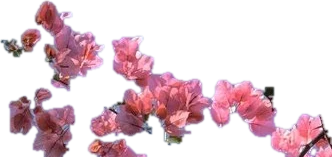
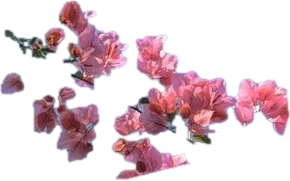
Ikebana: bougainvillea as slender branches with bract clusters
The lifted cutouts now follow a single branch each (the stray branch
and the lilac pick are gone). In the bowl each one becomes a slender
woody stem with single bract clusters on short spurs, cut at full
resolution and shown larger than in the photo, turned to face you.

Claude-Session: https://claude.ai/code/session_01CxARGhhHHX1fuduJKQNsWb

diff --git a/ikebana/index.html b/ikebana/index.html
@@ -127,7 +127,7 @@ button{font:inherit;color:inherit}
 (() => {
 'use strict';
 /* ================= data ================= */
-const FL = [{"key":"bougainvillea-mauve","name":"Bougainvillea","photo":1,"x":448,"y":0,"w":245,"h":335,"W":1125,"H":1500,"cx":0.457,"cy":0.448},{"key":"bougainvillea-coral","name":"Bougainvillea","photo":1,"x":348,"y":440,"w":352,"h":160,"W":1125,"H":1500,"cx":0.659,"cy":0.75},{"key":"bougainvillea-lilac","name":"Bougainvillea","photo":1,"x":687,"y":325,"w":228,"h":235,"W":1125,"H":1500,"cx":0.496,"cy":0.404},{"key":"phalaenopsis-low","name":"Moth orchid","photo":2,"x":66,"y":658,"w":376,"h":274,"W":1125,"H":1500,"cx":0.511,"cy":0.482},{"key":"phalaenopsis-top","name":"Moth orchid","photo":2,"x":225,"y":382,"w":337,"h":287,"W":1125,"H":1500,"cx":0.496,"cy":0.498},{"key":"phalaenopsis-mid","name":"Moth orchid","photo":2,"x":613,"y":374,"w":236,"h":214,"W":1125,"H":1500,"cx":0.53,"cy":0.486},{"key":"phalaenopsis-side","name":"Moth orchid","photo":2,"x":940,"y":384,"w":105,"h":148,"W":1125,"H":1500,"cx":0.4,"cy":0.459},{"key":"dahlia-cream","name":"Cream dahlia","photo":3,"x":570,"y":702,"w":240,"h":212,"W":1125,"H":1500,"cx":0.5,"cy":0.533},{"key":"lisianthus-rose","name":"Lisianthus","photo":3,"x":439,"y":1021,"w":216,"h":191,"W":1125,"H":1500,"cx":0.491,"cy":0.545},{"key":"lisianthus-blush","name":"Lisianthus","photo":3,"x":623,"y":1110,"w":162,"h":161,"W":1125,"H":1500,"cx":0.506,"cy":0.497},{"key":"lisianthus-pink","name":"Lisianthus","photo":3,"x":308,"y":1207,"w":225,"h":217,"W":1125,"H":1500,"cx":0.52,"cy":0.512},{"key":"echinops-front","name":"Globe thistle","photo":3,"x":309,"y":933,"w":109,"h":121,"W":1125,"H":1500,"cx":0.349,"cy":0.405},{"key":"echinops-left","name":"Globe thistle","photo":3,"x":0,"y":890,"w":134,"h":116,"W":1125,"H":1500,"cx":0.493,"cy":0.474},{"key":"hollyhock-open","name":"Hollyhock","photo":4,"x":564,"y":590,"w":375,"h":382,"W":1125,"H":1500,"cx":0.501,"cy":0.492},{"key":"hollyhock-upper","name":"Hollyhock","photo":4,"x":213,"y":230,"w":238,"h":204,"W":1125,"H":1500,"cx":0.5,"cy":0.529},{"key":"hollyhock-bell","name":"Hollyhock","photo":4,"x":87,"y":324,"w":191,"h":255,"W":1125,"H":1500,"cx":0.476,"cy":0.502},{"key":"coriander-a","name":"Coriander flowers","photo":5,"x":240,"y":412,"w":189,"h":100,"W":1125,"H":1500,"cx":0.476,"cy":0.46},{"key":"coriander-b","name":"Coriander flowers","photo":5,"x":345,"y":815,"w":210,"h":164,"W":1125,"H":1500,"cx":0.476,"cy":0.396},{"key":"coriander-c","name":"Coriander flowers","photo":5,"x":585,"y":426,"w":143,"h":129,"W":1125,"H":1500,"cx":0.49,"cy":0.457},{"key":"coriander-d","name":"Coriander flowers","photo":5,"x":345,"y":1108,"w":195,"h":237,"W":1125,"H":1500,"cx":0.513,"cy":0.494}];
+const FL = [{"key":"bougainvillea-mauve","name":"Bougainvillea","photo":1,"x":448,"y":0,"w":245,"h":335,"W":1125,"H":1500,"cx":0.457,"cy":0.448},{"key":"bougainvillea-coral","name":"Bougainvillea","photo":1,"x":344,"y":444,"w":290,"h":181,"W":1125,"H":1500,"cx":0.434,"cy":0.42},{"key":"phalaenopsis-low","name":"Moth orchid","photo":2,"x":66,"y":658,"w":376,"h":274,"W":1125,"H":1500,"cx":0.511,"cy":0.482},{"key":"phalaenopsis-top","name":"Moth orchid","photo":2,"x":225,"y":382,"w":337,"h":287,"W":1125,"H":1500,"cx":0.496,"cy":0.498},{"key":"phalaenopsis-mid","name":"Moth orchid","photo":2,"x":613,"y":374,"w":236,"h":214,"W":1125,"H":1500,"cx":0.53,"cy":0.486},{"key":"phalaenopsis-side","name":"Moth orchid","photo":2,"x":940,"y":384,"w":105,"h":148,"W":1125,"H":1500,"cx":0.4,"cy":0.459},{"key":"dahlia-cream","name":"Cream dahlia","photo":3,"x":570,"y":702,"w":240,"h":212,"W":1125,"H":1500,"cx":0.5,"cy":0.533},{"key":"lisianthus-rose","name":"Lisianthus","photo":3,"x":439,"y":1021,"w":216,"h":191,"W":1125,"H":1500,"cx":0.491,"cy":0.545},{"key":"lisianthus-blush","name":"Lisianthus","photo":3,"x":623,"y":1110,"w":162,"h":161,"W":1125,"H":1500,"cx":0.506,"cy":0.497},{"key":"lisianthus-pink","name":"Lisianthus","photo":3,"x":308,"y":1207,"w":225,"h":217,"W":1125,"H":1500,"cx":0.52,"cy":0.512},{"key":"echinops-front","name":"Globe thistle","photo":3,"x":309,"y":933,"w":109,"h":121,"W":1125,"H":1500,"cx":0.349,"cy":0.405},{"key":"echinops-left","name":"Globe thistle","photo":3,"x":0,"y":890,"w":134,"h":116,"W":1125,"H":1500,"cx":0.493,"cy":0.474},{"key":"hollyhock-open","name":"Hollyhock","photo":4,"x":564,"y":590,"w":375,"h":382,"W":1125,"H":1500,"cx":0.501,"cy":0.492},{"key":"hollyhock-upper","name":"Hollyhock","photo":4,"x":213,"y":230,"w":238,"h":204,"W":1125,"H":1500,"cx":0.5,"cy":0.529},{"key":"hollyhock-bell","name":"Hollyhock","photo":4,"x":87,"y":324,"w":191,"h":255,"W":1125,"H":1500,"cx":0.476,"cy":0.502},{"key":"coriander-a","name":"Coriander flowers","photo":5,"x":240,"y":412,"w":189,"h":100,"W":1125,"H":1500,"cx":0.476,"cy":0.46},{"key":"coriander-b","name":"Coriander flowers","photo":5,"x":345,"y":815,"w":210,"h":164,"W":1125,"H":1500,"cx":0.476,"cy":0.396},{"key":"coriander-c","name":"Coriander flowers","photo":5,"x":585,"y":426,"w":143,"h":129,"W":1125,"H":1500,"cx":0.49,"cy":0.457},{"key":"coriander-d","name":"Coriander flowers","photo":5,"x":345,"y":1108,"w":195,"h":237,"W":1125,"H":1500,"cx":0.513,"cy":0.494},{"key":"bract-mauve-1","name":"Bougainvillea","photo":0,"x":0,"y":0,"w":168,"h":160,"W":168,"H":160,"cx":0.524,"cy":0.412},{"key":"bract-mauve-2","name":"Bougainvillea","photo":0,"x":0,"y":0,"w":114,"h":134,"W":114,"H":134,"cx":0.667,"cy":0.388},{"key":"bract-mauve-4","name":"Bougainvillea","photo":0,"x":0,"y":0,"w":110,"h":154,"W":110,"H":154,"cx":0.455,"cy":0.532},{"key":"bract-coral-1","name":"Bougainvillea","photo":0,"x":0,"y":0,"w":112,"h":120,"W":112,"H":120,"cx":0.482,"cy":0.417},{"key":"bract-coral-2","name":"Bougainvillea","photo":0,"x":0,"y":0,"w":190,"h":154,"W":190,"H":154,"cx":0.516,"cy":0.481},{"key":"bract-coral-3","name":"Bougainvillea","photo":0,"x":0,"y":0,"w":148,"h":140,"W":148,"H":140,"cx":0.527,"cy":0.486},{"key":"bract-coral-4","name":"Bougainvillea","photo":0,"x":0,"y":0,"w":178,"h":200,"W":178,"H":200,"cx":0.472,"cy":0.51}];
 const PHOTOS = [
   {n:1, cap:'Bougainvillea against the sky'},
   {n:2, cap:'White moth orchid'},
@@ -135,11 +135,12 @@ const PHOTOS = [
   {n:4, cap:'Hollyhock'},
   {n:5, cap:'Coriander in flower'},
 ];
-const SCALE = {'phalaenopsis-side':.62,'lisianthus-blush':.86,'hollyhock-bell':.82,'hollyhock-upper':.9,'echinops-left':1.05,'coriander-c':.85,'bougainvillea-coral':.95};
+const SCALE = {'phalaenopsis-side':.62,'lisianthus-blush':.86,'hollyhock-bell':.82,'hollyhock-upper':.9,'echinops-left':1.05,'coriander-c':.85};
 const TYPES = {
-  bougainvillea:{size:.74, cup:0, stemR:.03, stemCol:0x5d4634, bark:true, k:48, zeta:.2, calyx:0,
-            leaves:{shape:'small', n:6, t0:.55, t1:.95, len:.12, wid:.075, col:0x3d6a2c, ang:.8},
-            extras:[{kind:'sprite', t:.66, len:.22, scale:.55, alt:true}]},
+  // a slender woody stem; papery bract clusters sit along the upper part on short spurs, the newest one at the tip
+  bougainvillea:{size:.4, cup:.05, stemR:.02, stemCol:0x4f4a2c, bark:true, k:42, zeta:.2, calyx:0, bracts:true,
+            leaves:{shape:'small', n:8, t0:.4, t1:.95, len:.12, wid:.075, col:0x3b6a2c, ang:.9},
+            extras:[.52,.61,.7,.78,.86,.93].map((t,i)=>({kind:'sprite', bract:true, t, len:.09+(i%2)*.06, scale:.72+((i*5)%3)*.12}))},
   phalaenopsis:{size:.8, cup:.05, stemR:.022, stemCol:0x4b5a33, k:20, zeta:.12, calyx:.03,
             leaves:null,
             extras:[{kind:'sprite', t:.84, len:.15, scale:.66, alt:true},{kind:'sprite', t:.74, len:.11, scale:.52, alt:true},
@@ -162,6 +163,8 @@ const TYPES = {
             extras:[{kind:'sprite', t:.72, len:.22, scale:.66, alt:true},{kind:'sprite', t:.58, len:.17, scale:.52, alt:true}]},
 };
 const typeOf = k => k.split('-')[0];
+// bougainvillea branches dress themselves in single bract clusters of the colour you picked
+const bractFor = key => { const tone = key.includes('coral') ? 'coral' : 'mauve'; const l = FL.filter(o=>o.key.startsWith('bract-'+tone)); return l[Math.floor(Math.random()*l.length)].key; };
 const byKey = Object.fromEntries(FL.map(f => [f.key, f]));
 const reduceMotion = matchMedia('(prefers-reduced-motion: reduce)').matches;
 
@@ -815,7 +818,7 @@ function addFlower(def, pl){
   f.cap = new THREE.Mesh(capGeo, new THREE.MeshStandardMaterial({color:T.bark?0xcaa985:0xd7e2b0, roughness:.8, side:THREE.DoubleSide})); f.cap.matrixAutoUpdate=false; f.group.add(f.cap);
   // head
   const size=T.size*(SCALE[def.key]||1);
-  f.head = headMesh(def.key, size, T.cup); f.headGroup=new THREE.Group(); f.headGroup.add(f.head.mesh);
+  f.head = headMesh(T.bracts ? bractFor(def.key) : def.key, size, T.cup); f.headGroup=new THREE.Group(); f.headGroup.add(f.head.mesh);
   if(T.calyx){ const cm=new THREE.Mesh(calyxGeo, stemMat); cm.scale.set(T.calyx*.9,T.calyx*.9,T.calyx*1.2); cm.castShadow=true; f.headGroup.add(cm); }
   f.group.add(f.headGroup);
   // leaves
@@ -832,7 +835,7 @@ function addFlower(def, pl){
     e.seg=new THREE.Mesh(segGeo, stemMat); e.seg.matrixAutoUpdate=false; e.seg.castShadow=true; f.group.add(e.seg);
     if(x.kind==='bud'){ const col=new THREE.Color(x.base).lerp(avg[def.key]||new THREE.Color(0xffffff), x.tint);
       e.obj=new THREE.Mesh(budGeo, new THREE.MeshStandardMaterial({color:col, roughness:.5})); e.obj.matrixAutoUpdate=false; e.obj.castShadow=true; f.group.add(e.obj); }
-    else { const sib = FL.filter(o=>typeOf(o.key)===type && o.key!==def.key && !o.key.endsWith('-bud')); const key = x.alt ? (sib[Math.floor(Math.random()*sib.length)]||def).key : (x.key||def.key);
+    else { const sib = FL.filter(o=>typeOf(o.key)===type && o.key!==def.key && o.photo>0); const key = x.bract ? bractFor(def.key) : x.alt ? (sib[Math.floor(Math.random()*sib.length)]||def).key : (x.key||def.key);
       const hm=headMesh(key, T.size*(x.scale||.6)*(x.alt?1:1), T.cup*.6); e.obj=hm.mesh; e.u=hm.u; e.obj.matrixAutoUpdate=false; f.group.add(e.obj); }
     f.extras.push(e);
   }
@@ -929,7 +932,7 @@ function updateFlower(f, dt){
     orientTo(e.seg,_cp,_dir,r,len,r);
     _tip.copy(_cp).addScaledVector(_dir,len);
     if(e.kind==='bud'){ _q.setFromUnitVectors(UP,_dir); _s.set(e.size[0]*vis,e.size[1]*.5*vis,e.size[0]*vis); e.obj.matrix.compose(_tip,_q,_s); }
-    else { const nrm=_v3.copy(_rad).multiplyScalar(.75).addScaledVector(f.N,.5).addScaledVector(UP,.25).normalize();
+    else { const nrm=e.bract ? _v3.copy(_rad).multiplyScalar(.4).addScaledVector(f.N,.85).addScaledVector(UP,.2).normalize() : _v3.copy(_rad).multiplyScalar(.75).addScaledVector(f.N,.5).addScaledVector(UP,.25).normalize();
       _q.setFromUnitVectors(ZAX,nrm); _q2.setFromAxisAngle(nrm,e.az); _q.premultiply(_q2); _s.setScalar(vis); e.obj.matrix.compose(_tip,_q,_s);
       e.u.uBreath.value=.01*Math.sin(clock*1.1+e.ph); }
   }
